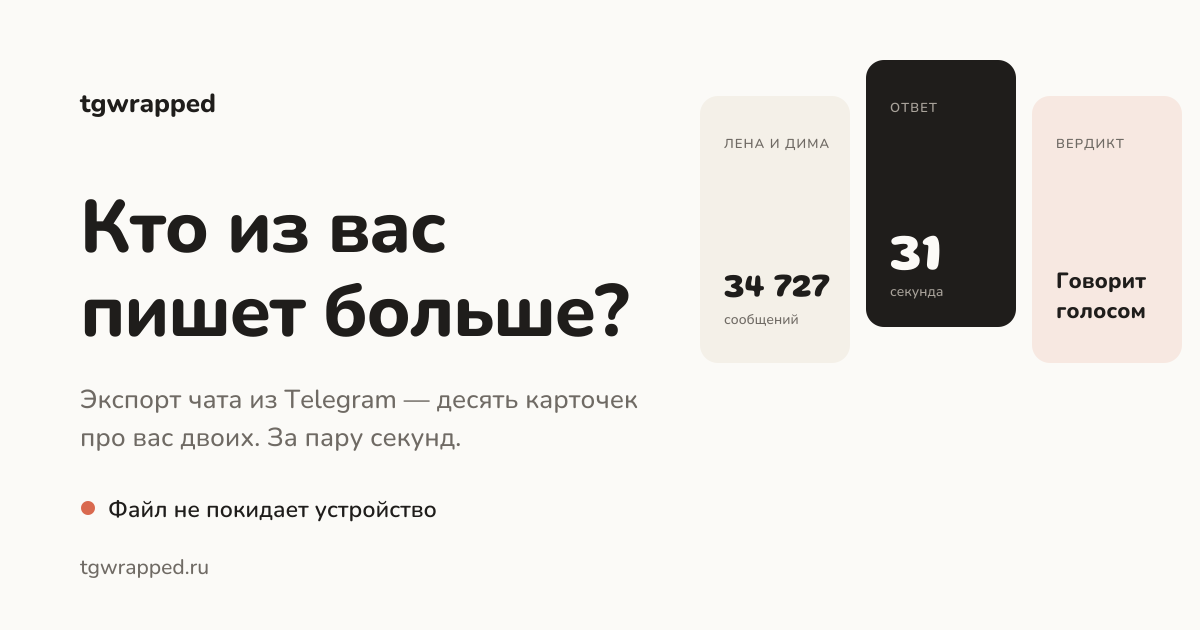
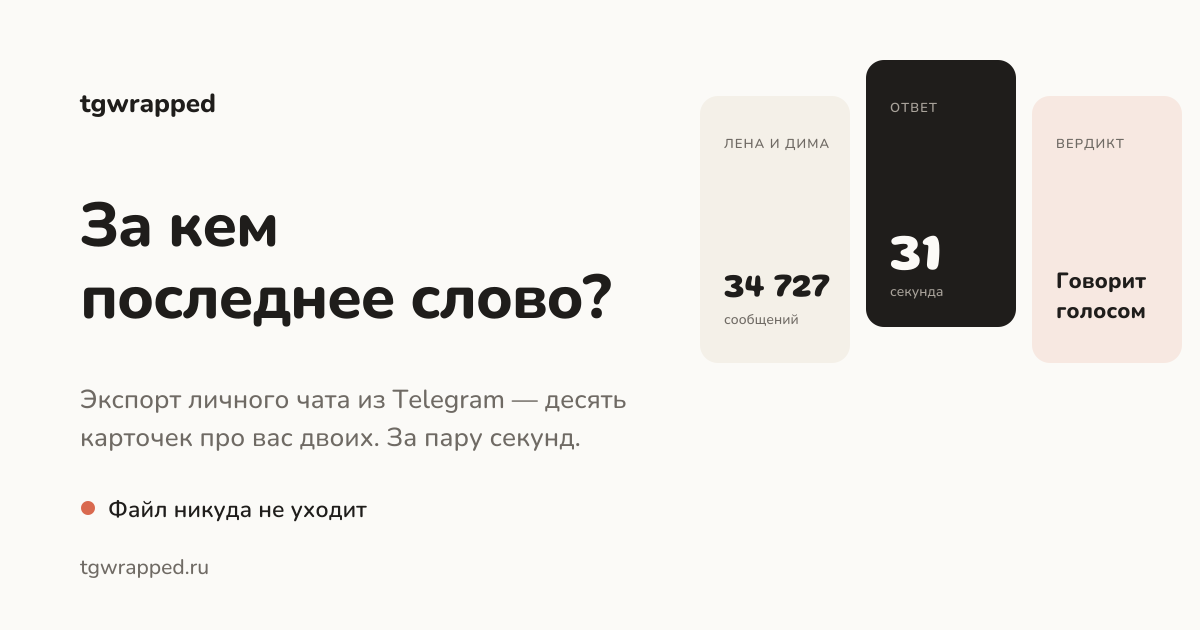
Версия 0.7.3: лендинг заговорил живее
Тексты главной переписаны: заголовок «За кем последнее слово?»,
конкретная деталь в каждой строке, блок приватности «Чат на двоих,
а не на троих» с честной оговоркой про ссылку. Превью ссылки
перерисовано под новый заголовок.

diff --git a/app/index.html b/app/index.html
@@ -1,23 +1,23 @@
 <!doctype html><html lang="ru"><head><meta charset="utf-8"><meta name="viewport" content="width=device-width,initial-scale=1">
-<title>Telegram Wrapped — кто из вас пишет больше</title>
-<meta name="description" content="Загрузите экспорт чата из Telegram и получите десять карточек: кто пишет больше, кто отвечает быстрее, кто извиняется, кто оставляет последнее слово. Файл не покидает ваш телефон.">
-<meta name="version" content="0.7.2">
+<title>Telegram Wrapped — за кем последнее слово</title>
+<meta name="description" content="Скиньте экспорт личного чата из Telegram — получите десять карточек про вас двоих: кто отвечает за полминуты, кто извиняется первым, за кем последнее слово. Файл никуда не уходит.">
+<meta name="version" content="0.7.3">
 <link rel="icon" href="favicon.svg" type="image/svg+xml">
 <link rel="canonical" href="https://retorta.tracedocs.ru/">
 <meta property="og:url" content="https://retorta.tracedocs.ru/">
 <meta property="og:type" content="website">
 <meta property="og:site_name" content="tgwrapped">
 <meta property="og:locale" content="ru_RU">
-<meta property="og:title" content="Кто из вас пишет больше?">
-<meta property="og:description" content="Экспорт чата из Telegram — десять карточек про вас двоих: кто отвечает за полминуты, кто извиняется, кто оставляет последнее слово. Файл не покидает устройство.">
+<meta property="og:title" content="За кем последнее слово?">
+<meta property="og:description" content="Экспорт личного чата из Telegram — десять карточек про вас двоих: кто отвечает за полминуты, кто извиняется первым, кто пишет вдогонку. Файл никуда не уходит.">
 <meta property="og:image" content="https://retorta.tracedocs.ru/og.png">
 <meta property="og:image:type" content="image/png">
 <meta property="og:image:width" content="1200">
 <meta property="og:image:height" content="630">
 <meta property="og:image:alt" content="tgwrapped — карточки статистики переписки">
 <meta name="twitter:card" content="summary_large_image">
-<meta name="twitter:title" content="Кто из вас пишет больше?">
-<meta name="twitter:description" content="Экспорт чата из Telegram — десять карточек про вас двоих. Файл не покидает устройство.">
+<meta name="twitter:title" content="За кем последнее слово?">
+<meta name="twitter:description" content="Экспорт личного чата из Telegram — десять карточек про вас двоих. Файл никуда не уходит.">
 <meta name="twitter:image" content="https://retorta.tracedocs.ru/og.png">
 <link rel="stylesheet" href="fonts.css">
 <link rel="stylesheet" href="site.css">
@@ -29,8 +29,8 @@
   <nav><a href="#how">Как это работает</a><a href="#privacy">Приватность</a></nav></header>
 
  <section class="hero">
-  <h1 class="d">Кто из вас пишет больше?</h1>
-  <p>Загрузите экспорт чата — получите десять карточек про вас двоих. Кто отвечает за полминуты, кто извиняется, кто оставляет последнее слово.</p>
+  <h1 class="d">За кем последнее слово?</h1>
+  <p>Скиньте экспорт личного чата — получите десять карточек про вас двоих. Кто отвечает за полминуты, кто извиняется первым, кто пишет вдогонку. Годами делали, ни разу не считали.</p>
   <label class="drop" id="drop">
    <input type="file" id="file" accept=".json,application/json">
    <svg width="28" height="28" viewBox="0 0 24 24" fill="none" stroke="currentColor" stroke-width="1.5" stroke-linecap="round" stroke-linejoin="round"><path d="M14 3H7a2 2 0 0 0-2 2v14a2 2 0 0 0 2 2h10a2 2 0 0 0 2-2V8z"/><path d="M14 3v5h5"/><path d="M9 13h6"/><path d="M9 17h6"/></svg>
@@ -39,33 +39,33 @@
   </label>
   <p class="priv">
    <svg width="16" height="16" viewBox="0 0 24 24" fill="none" stroke="currentColor" stroke-width="1.5" stroke-linecap="round" stroke-linejoin="round" style="flex-shrink:0"><rect x="4" y="11" width="16" height="10" rx="2"/><path d="M8 11V7a4 4 0 0 1 8 0v4"/></svg>
-   Файл не покидает устройство — всё считается в браузере</p>
+   Файл никуда не уходит — его читает только ваш браузер</p>
   <div class="status" id="status"></div>
  </section>
 </div>
 
 <div class="wrap"><div class="showcase" id="showcase"></div>
- <p class="caption">Десять карточек. Примерно такие.</p></div>
+ <p class="caption">Десять карточек. Цифры пока чужие.</p></div>
 
 <div class="wrap">
  <section class="block" id="how"><h2 class="d">Как это работает</h2>
   <div class="steps">
-   <div><div class="n">01</div><h3>Экспорт в Telegram Desktop</h3><p>В телефоне экспорта нет. Откройте чат на компьютере: три точки → Export chat history. Формат JSON, медиа снимите — нужен только текст.</p></div>
-   <div><div class="n">02</div><h3>Загрузите result.json</h3><p>Даже 18 мегабайт считаются за пару секунд. Прямо здесь, в браузере.</p></div>
-   <div><div class="n">03</div><h3>Отправьте второму</h3><p>Альбомом, одной картинкой, текстом или ссылкой — в тот самый чат.</p></div>
+   <div><div class="n">01</div><h3>Экспорт — только с компьютера</h3><p>В телефоне экспорта нет. Откройте чат в Telegram Desktop: три точки → Export chat history, формат JSON, галочки с медиа снимите — нужен только текст.</p></div>
+   <div><div class="n">02</div><h3>Загрузите result.json</h3><p>Считается в браузере. 35 тысяч сообщений, 18 мегабайт — около полутора секунд, и все десять карточек на экране.</p></div>
+   <div><div class="n">03</div><h3>Отправьте в тот же чат</h3><p>Альбомом, одним листом, текстом или ссылкой. Ссылка — единственный случай, когда цифры уходят с устройства: они лежат в самом адресе, а адрес — на серверах Telegram.</p></div>
   </div>
  </section>
 
- <section class="block" id="privacy"><h2 class="d">Ничего не уходит с устройства</h2>
-  <p style="margin-top:16px;font-size:17px;line-height:1.5;color:var(--mute);max-width:56ch">Файл читается в браузере, цифры считаются там же. Сервера, который мог бы принять переписку, не существует.</p>
+ <section class="block" id="privacy"><h2 class="d">Чат на двоих, а не на троих</h2>
+  <p style="margin-top:16px;font-size:17px;line-height:1.5;color:var(--mute);max-width:56ch">Файл открывается в браузере, цифры считаются там же. Сервера у сайта нет, третьему читателю взяться неоткуда: переписку видят те же двое, что её написали.</p>
   <div class="proof">
-   <div><b>Проверьте сами</b><p>Включите авиарежим и загрузите файл. Всё посчитается.</p></div>
-   <div><b>Открытый код</b><p>Анализатор — один файл на JavaScript. <a href="https://github.com/TsapkovAlexander/tgwrapped" rel="noopener" style="text-decoration:underline">Каждая регулярка на виду</a>.</p></div>
-   <div><b>Без регистрации</b><p>Нет аккаунта — нечему утекать. Закрыли вкладку — всё исчезло.</p></div>
+   <div><b>Проверьте сами</b><p>Отключите сеть и загрузите файл. Всё посчитается: интернет этому сайту нужен один раз — чтобы открыться.</p></div>
+   <div><b>Код на GitHub</b><p>Анализатор — один файл на JavaScript, <a href="https://github.com/TsapkovAlexander/tgwrapped" rel="noopener" style="text-decoration:underline">лежит на GitHub</a>. Каждая регулярка, которая ищет «извини», на виду.</p></div>
+   <div><b>Без аккаунта</b><p>Ни логина, ни почты. Регистрации нет, значит нет и базы, где лежал бы ваш чат.</p></div>
   </div>
  </section>
 
- <footer><span>tgwrapped.ru</span><span>Считается в браузере, ничего не сохраняется</span></footer>
+ <footer><span>tgwrapped.ru</span><span>Посчитали и забыли</span></footer>
 </div>
 </main>
 

diff --git a/scripts/make-og.py b/scripts/make-og.py
@@ -76,12 +76,12 @@ def build():
     p.append(T8.draw("голосом", 1056, 318, 22, INK)[0])
     # левая колонка
     p.append(T8.draw("tgwrapped", 80, 112, 26, INK)[0])
-    p.append(T8.draw("Кто из вас", 80, 252, 74, INK, tracking=-1.6)[0])
-    p.append(T8.draw("пишет больше?", 80, 336, 74, INK, tracking=-1.6)[0])
-    p.append(T5.draw("Экспорт чата из Telegram — десять карточек", 80, 408, 26, MUTE)[0])
-    p.append(T5.draw("про вас двоих. За пару секунд.", 80, 446, 26, MUTE)[0])
+    p.append(T8.draw("За кем", 80, 246, 62, INK, tracking=-1.4)[0])
+    p.append(T8.draw("последнее слово?", 80, 318, 62, INK, tracking=-1.4)[0])
+    p.append(T5.draw("Экспорт личного чата из Telegram — десять", 80, 408, 26, MUTE)[0])
+    p.append(T5.draw("карточек про вас двоих. За пару секунд.", 80, 446, 26, MUTE)[0])
     p.append(f'<circle cx="88" cy="508" r="7" fill="{CORAL}"/>')
-    p.append(T6.draw("Файл не покидает устройство", 108, 517, 23, INK)[0])
+    p.append(T6.draw("Файл никуда не уходит", 108, 517, 23, INK)[0])
     p.append(T5.draw("tgwrapped.ru", 80, 574, 21, MUTE)[0])
     return ('<svg xmlns="http://www.w3.org/2000/svg" width="1200" height="630" viewBox="0 0 1200 630">'
             + "\n".join(p) + "</svg>")

diff --git a/CLAUDE.md b/CLAUDE.md
@@ -21,6 +21,7 @@
 - Типографика: цифры — Gluten, текст — Nunito. Gluten объявлен с `unicode-range` только на цифры, разделитель разрядов и процент: кириллицы в нём нет, а числа внутри фраз должны брать его автоматически. Не ставить Gluten на буквы и не убирать unicode-range — русский текст молча съедет на фолбэк
 - Формат слайда фиксированный: 1080×1920, вёрстка в абсолютных px. На экране слайд ужимается `transform: scale(clientWidth/1080)` в `fit()`; перед экспортом трансформ снимается
 - Пол участника из экспорта неизвестен, поэтому в текстах карточек не должно быть родовых форм: ярлыки вердикта — глаголы третьего лица («Говорит голосом»), а не прилагательные («Голосовой»). Тест на родовые окончания это стережёт
+- Тексты интерфейса и лендинга — разговорная речь автора продукта с конкретной деталью в каждой строке. Механический гейт перед правкой текстов: `rg -n "погрузи|откройте для себя|раскро|уникальн|незабываем|идеальн|в пару кликов|легко и просто|интуитивно|инновацион|персональн|магия|мы верим|миссия|в эпоху|представьте|не просто" app/index.html` должен давать 0 совпадений. Восклицательные знаки, эмодзи и каскады риторических вопросов — тоже брак
 - Числа в тексте — только через `np()`/`plural()` из `format.js`. «933 дней» и «401 звонков» — брак
 - Два словаря стоп-слов в `stats.js` и путать их нельзя: `STOP` (широкий) отсекает шум в частотных `top_words`, `CORE` (только служебные) — в `signature`. Слова-паразиты обязаны попадать в фирменные, иначе метрика теряет смысл
 - Код намеренно плотный: однострочники, короткие имена. Новый код держать в том же стиле, существующий не «причёсывать»
@@ -67,7 +68,7 @@
 - Файл: `CHANGELOG.md`
 - repo-версия: поле `version` в корневом `package.json`
 - Та же версия продублирована в `app/index.html` (`<meta name="version">`) — подставить её некому, сборки нет. Дублирование стережёт `npm run version:check`, чинит `npm run version:sync`
-- Текущая версия: `0.7.2`
+- Текущая версия: `0.7.3`
 
 ## Планы
 - Групповые чаты: `analyze()` берёт только топ-2 участников и падает на «В чате один участник»; на лендинге стоит «Групповые — скоро»

diff --git a/CHANGELOG.md b/CHANGELOG.md
@@ -4,6 +4,12 @@
 
 ---
 
+## 0.7.3 — 2026-09-03 Лендинг заговорил живее
+
+Тексты главной переписаны: заголовок теперь «За кем последнее слово?», а не счётчик сообщений; в каждой строке — конкретная деталь вместо общего места. Блок о приватности называется «Чат на двоих, а не на троих», и там же честно оговорено единственное исключение — ссылка, внутри которой лежат цифры. Превью ссылки перерисовано под новый заголовок.
+
+---
+
 ## 0.7.2 — 2026-09-03 Присланная ссылка открывается на уже открытой вкладке
 
 Если сайт был открыт и в адресную строку вставляли ссылку с чужим отчётом, ничего не происходило: адрес менялся, а страница оставалась прежней. Теперь отчёт открывается сразу.
